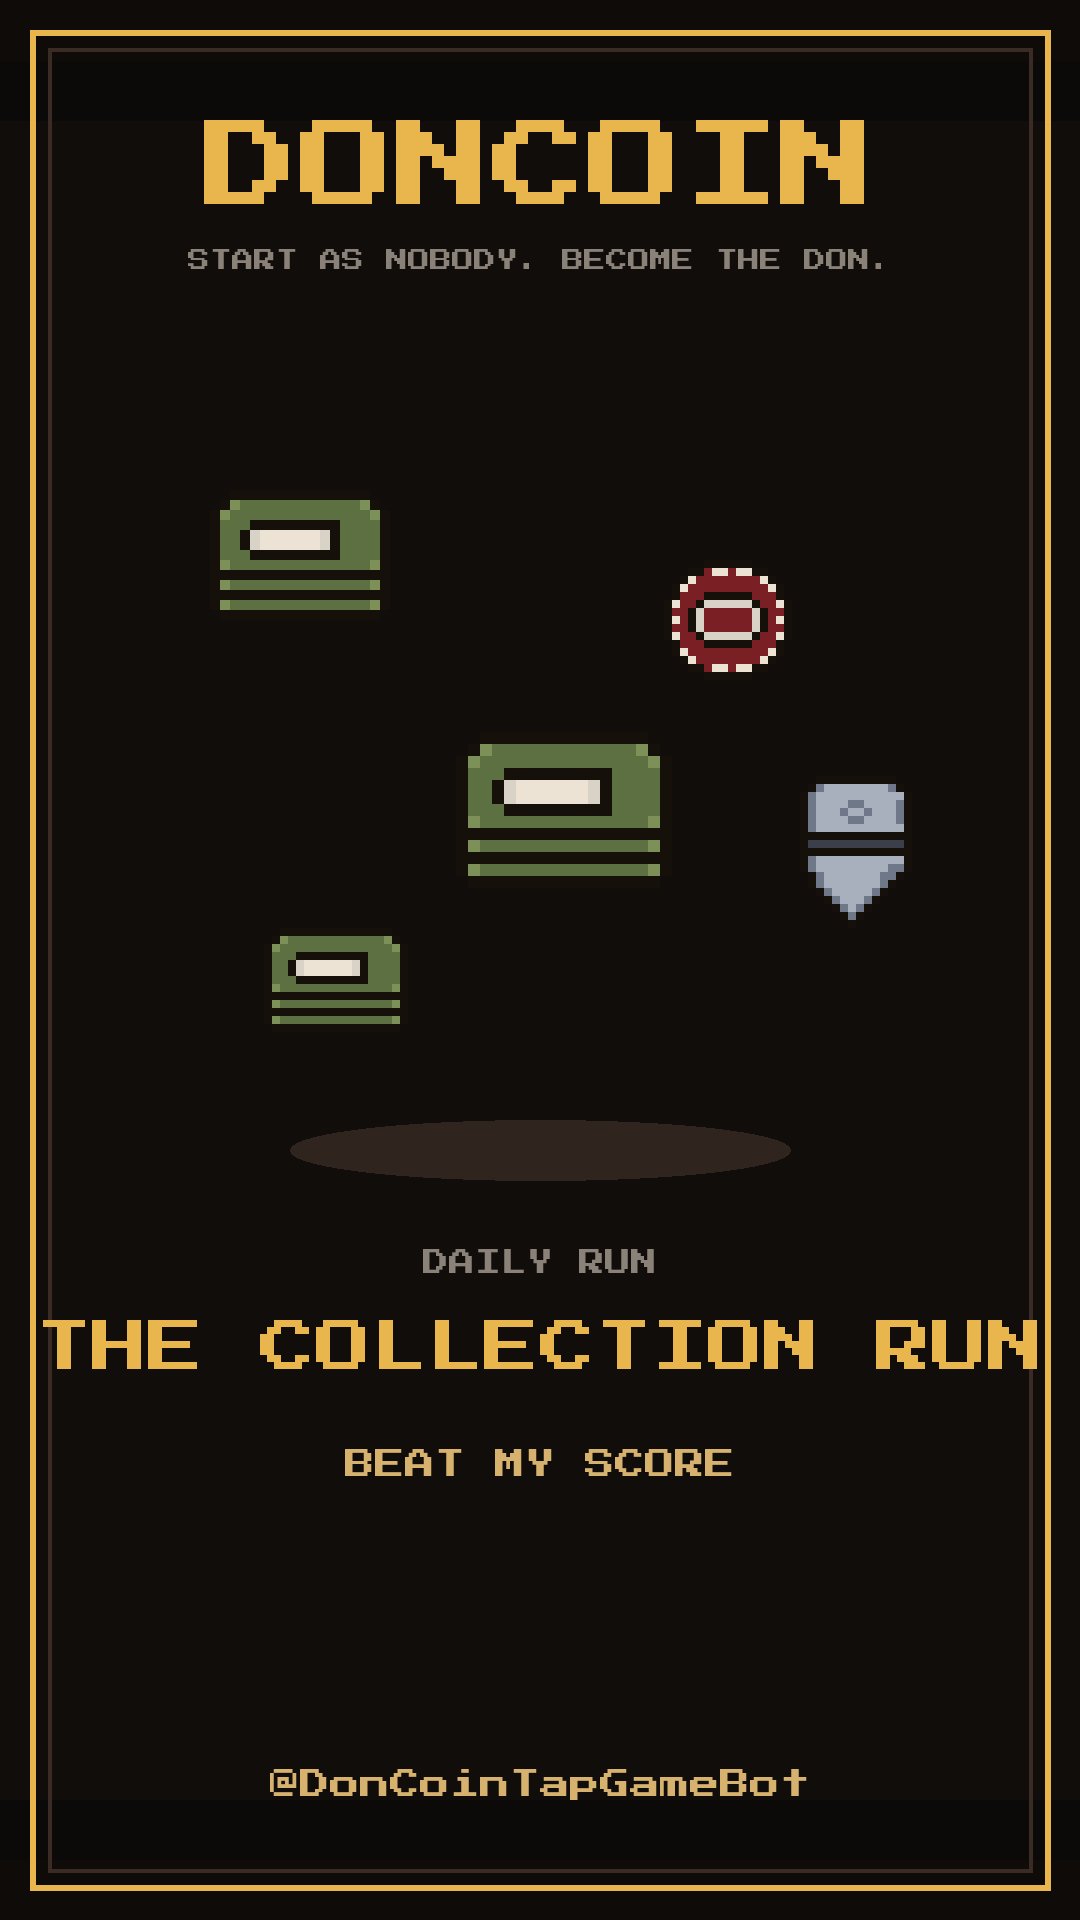
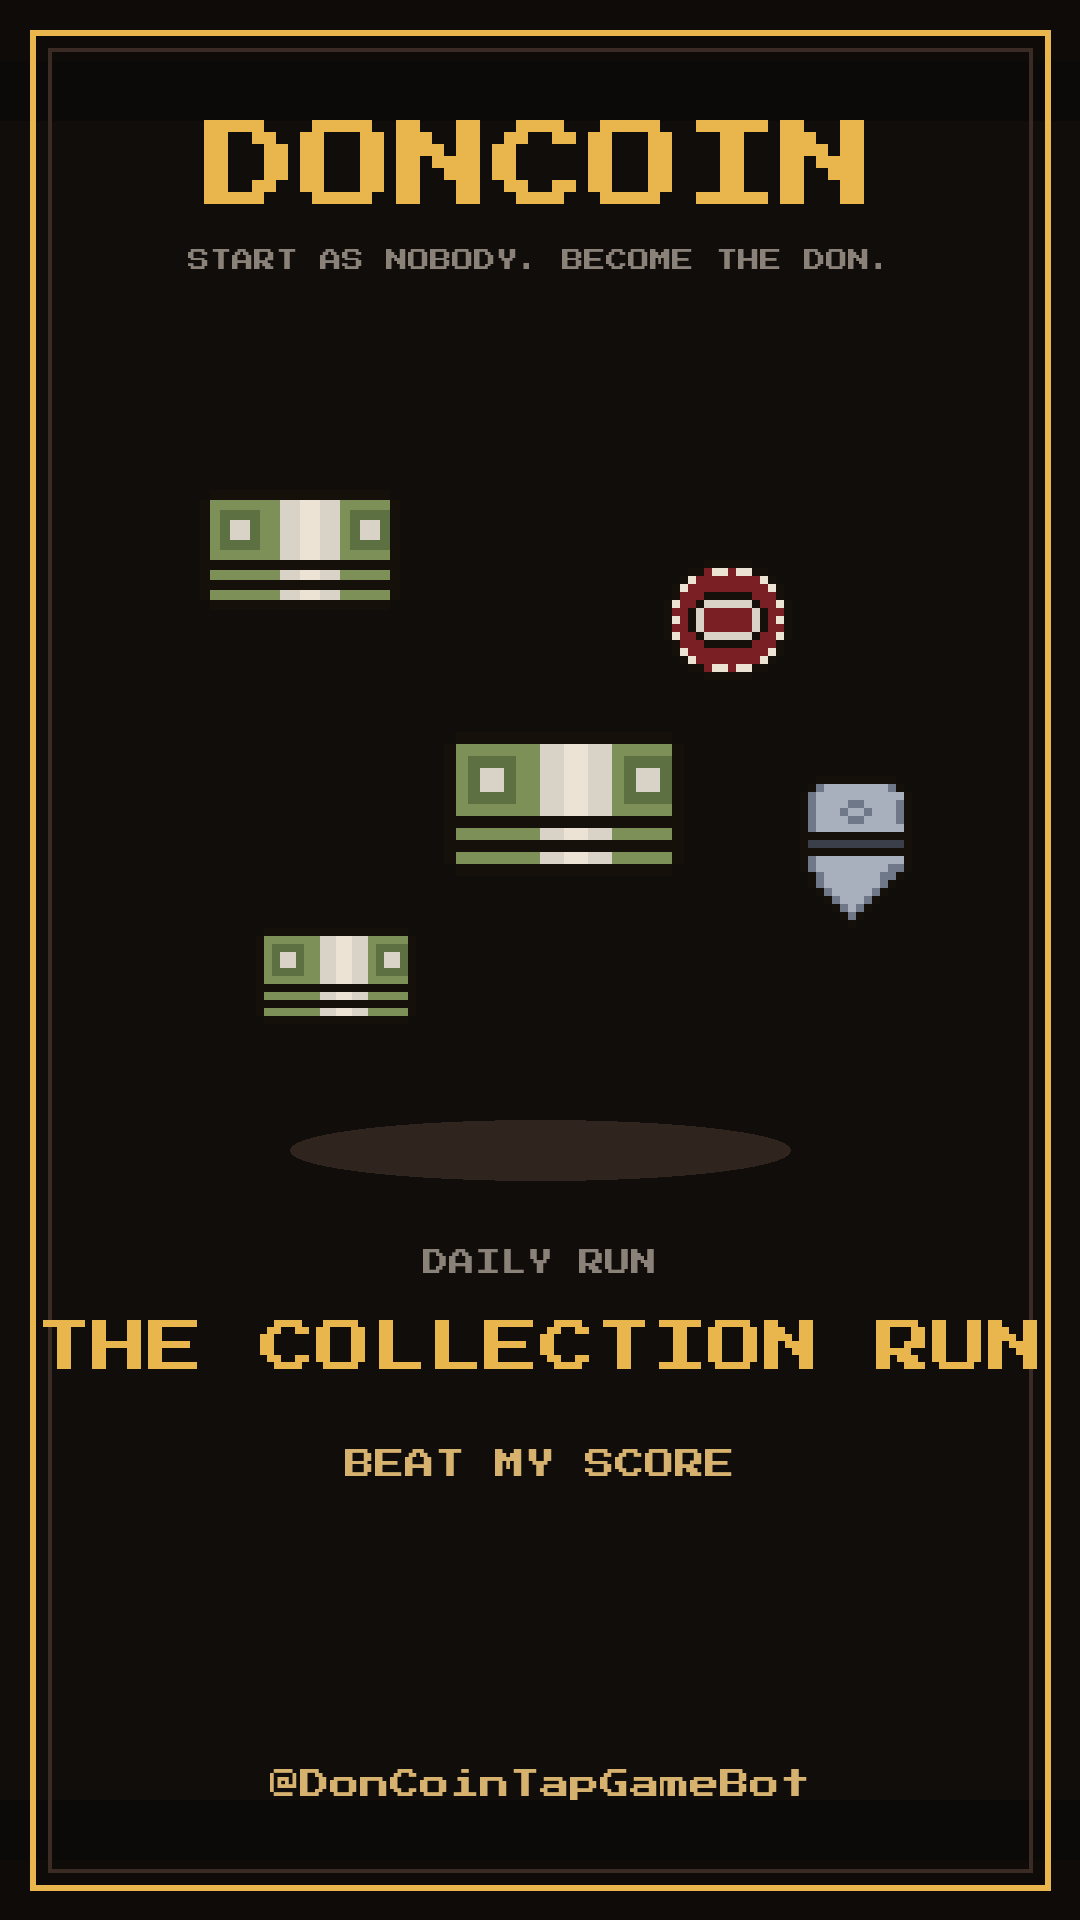
Draw a cash bundle that looks like one
The falling "cash" in the Collection Run was the capo's rank emblem
doing a second job, and it read as a green box. Now it is its own
icon: a banknote with two portrait windows, a bone bank band across
the middle, and two more notes stacked beneath. Swapped in the run,
the lesson, the briefing legend, the entrance button and the story
cards.

Changed region(s): [[0.3972, 0.375, 0.6417, 0.4688], [0.1833, 0.25, 0.3667, 0.3438], [0.2444, 0.4688, 0.3972, 0.5312]]

diff --git a/client/src/arcade/ArcadeGame.tsx b/client/src/arcade/ArcadeGame.tsx
@@ -43,7 +43,7 @@ const BOBBY_FRAME_MS = 125;
  * нельзя было тапать не глядя.
  */
 const DROPS = [
-  { icon: 'rank-capo', value: 10, weight: 55 },
+  { icon: 'cash', value: 10, weight: 55 },
   { icon: 'casino', value: 25, weight: 20 },
   { icon: 'ring', value: 50, weight: 5 },
   { icon: 'badge', value: -30, weight: 20 },
@@ -81,7 +81,7 @@ const TUTORIAL_STEPS = [
   },
   {
     say: 'Всё, что блестит, — в карман. Тапни пачку.',
-    item: { icon: 'rank-capo', value: 10 },
+    item: { icon: 'cash', value: 10 },
     after: 'Вот так. Пачка +10, фишка +25, перстень +50.',
     button: 'Дальше',
   },
@@ -396,7 +396,7 @@ export function ArcadeGame({ api, onClose }: ArcadeGameProps) {
           <div className="rounded-lg border border-don-edge bg-don-ink/80 p-4">
             <ul className="flex flex-col gap-3">
               {[
-                { icon: 'rank-capo', label: t('Пачка наличных'), value: '+10' },
+                { icon: 'cash', label: t('Пачка наличных'), value: '+10' },
                 { icon: 'casino', label: t('Фишка казино'), value: '+25' },
                 { icon: 'ring', label: t('Перстень'), value: '+50' },
               ].map((row) => (

diff --git a/client/src/arcade/ArcadeCard.tsx b/client/src/arcade/ArcadeCard.tsx
@@ -47,7 +47,7 @@ export function ArcadeCard({ api }: { api: ArcadeApi }) {
       onClick={() => setPlaying(true)}
       className="flex w-full items-center justify-center gap-2.5 rounded-lg border border-don-gold/40 bg-don-ink px-3 min-h-11 py-2 text-sm font-semibold text-don-gold active:scale-95"
     >
-      <PixelIcon id="rank-capo" className="h-5 w-5" />
+      <PixelIcon id="cash" className="h-5 w-5" />
       {t('Сбор выручки: 30 секунд')}
       {status.best > 0 && (
         <span className="text-xs font-normal text-neutral-400">

diff --git a/client/src/ui/PixelIcon.tsx b/client/src/ui/PixelIcon.tsx
@@ -14,7 +14,7 @@
 const DRAWN = new Set([
   'cigar', 'steak', 'ring', 'bourbon', 'revolver', 'envelope',
   'duck', 'payphone', 'shades', 'prosciutto', 'dice', 'car_keys',
-  'full_energy', 'rush', 'trophy', 'badge',
+  'full_energy', 'rush', 'trophy', 'badge', 'cash',
   // Бизнесы.
   'street_food', 'pizzeria', 'car_wash', 'pawnshop', 'restaurant',
   'night_club', 'casino', 'construction', 'union', 'private_club',
